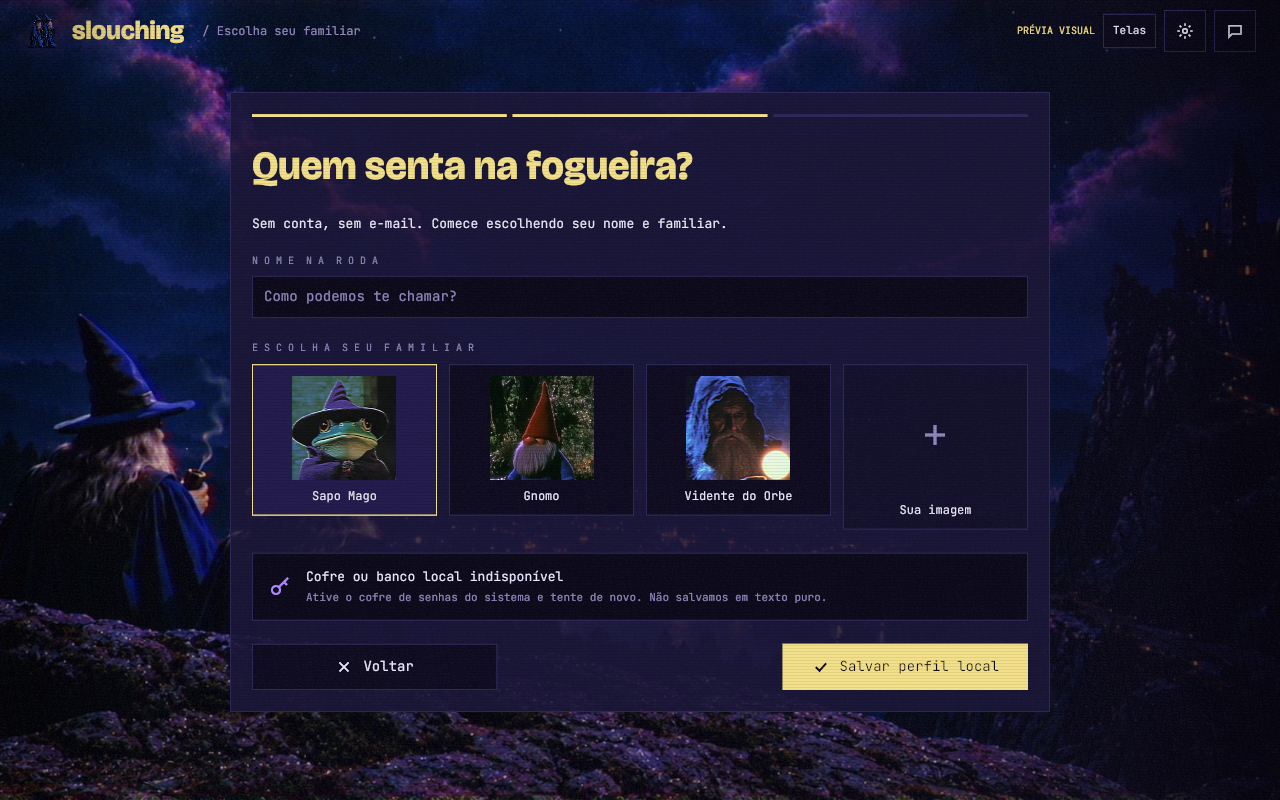
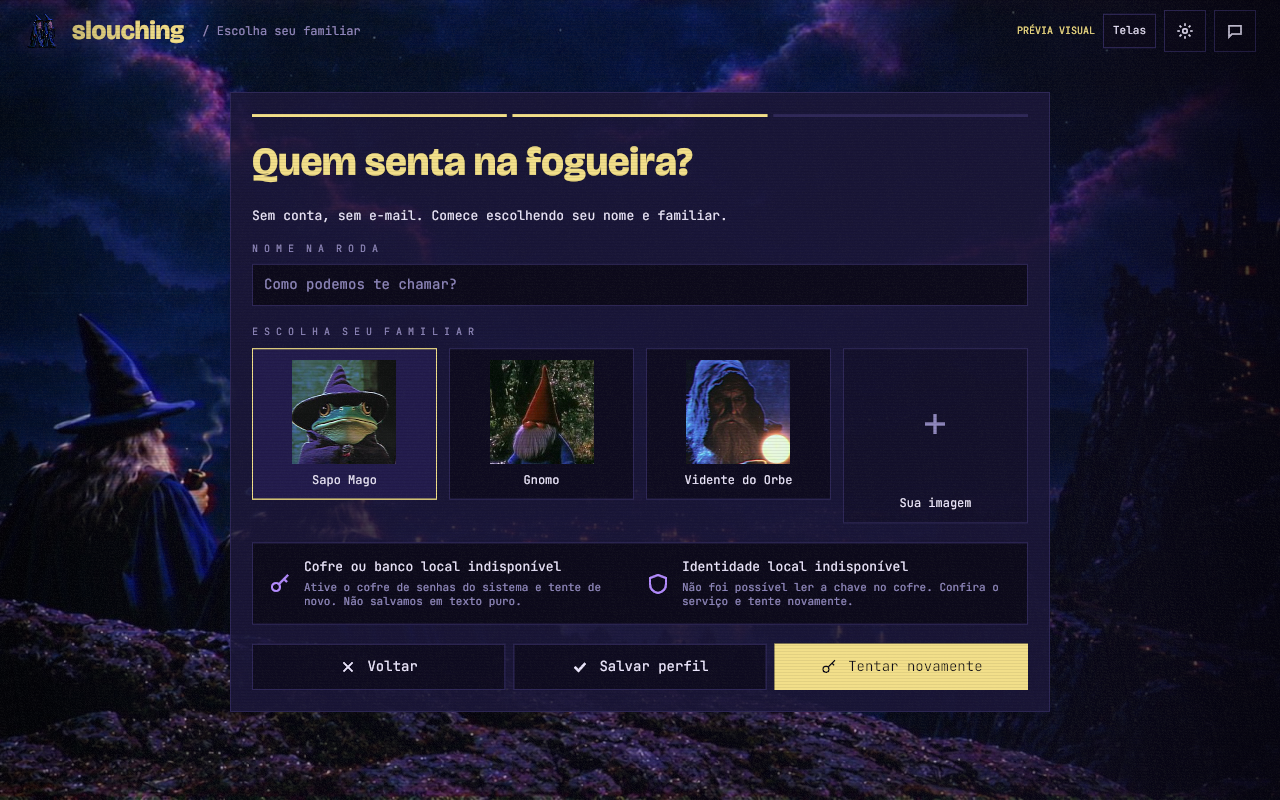
Document local Ed25519 device identity

diff --git a/README.md b/README.md
@@ -16,7 +16,7 @@
 **Conceived by Rodrigo and Vitchola**, Slouching is a planned private place for a small crew to chat, call, and share a screen. The Rust/Iced client owns local keys, cryptography, history, and direct peer paths. Each device is planned to retain its own encrypted SQLite history, inbox, outbox, and MLS state. Elixir remains the backend language. A member may optionally host a helper on a PC or VPS for ciphertext delivery, discovery, relay, or group media. Reachable LAN peers must work without a hosted helper or PostgreSQL; that mode is not implemented yet.
 
 > [!IMPORTANT]
-> This is an early build, **not a secure messenger**. The Rust/Iced frontend has eleven navigable preview views. The Elixir backend has local status and a persistent development WebSocket transport with a binary protobuf handshake and Ping/Pong heartbeat. There is no working cryptographic identity, MLS, peer transport, encrypted chat, media call, or screen sharing. The older Rust `slouching-peer` crate is preserved as an experiment, not the service backend.
+> This is an early build, **not a secure messenger**. The Rust/Iced frontend has eleven navigable preview views and can explicitly create a local Ed25519 signing key in the system credential store. That key is not used to authenticate peers; fingerprint verification, pairing, MLS, peer transport, encrypted chat, media calls, and screen sharing are not implemented. The Elixir backend has local status and a development WebSocket handshake with Ping/Pong. The older Rust `slouching-peer` crate is preserved as an experiment, not the service backend.
 
 ![Native Rust/Iced home using the supplied scenery, characters, fonts, and icons; first visual pass](docs/design/readme/native-vhs-home.png)
 
@@ -36,7 +36,7 @@ This repository holds the project overview, design sources, and a reconciled doc
 
 | Repository | Owns | Current state |
 | --- | --- | --- |
-| [slouching-frontend](https://github.com/slouching-org/slouching-frontend) | Native Rust/Iced desktop UI and web visual prototype | Eleven native previews; encrypted local display profile; local diagnostic transport |
+| [slouching-frontend](https://github.com/slouching-org/slouching-frontend) | Native Rust/Iced desktop UI and web visual prototype | Eleven native previews; encrypted local display profile; explicit Ed25519 key creation; local diagnostic transport |
 | [slouching-backend](https://github.com/slouching-org/slouching-backend) | Elixir service backend | Local transport plus optional PostgreSQL device-key schema; no enrollment or product traffic |
 
 Start with the [fichas index](docs/fichas/README.md). The [product specification](docs/fichas/architecture/backend.md), [Elixir backend boundary](docs/fichas/architecture/elixir-backend.md), [frontend screen specification](docs/fichas/frontend/screens.md), [technology plan](docs/fichas/architecture/tech-stack.md), and [ADRs](docs/fichas/README.md#accepted-decisions) describe the target and distinguish it from working code. The [owner's 11-page architecture PDF](docs/fichas/architecture/sources/architecture-p2p-v0.1.pdf) and [page-by-page transcript](docs/fichas/architecture/sources/README.md) are preserved. [ADR 0005](docs/fichas/architecture/adr-0005-elixir-server-core.md) defines the Rust-client/Elixir-backend division. [ADR 0006](docs/fichas/architecture/adr-0006-local-storage-optional-helper.md) reaffirms the backup specification: local SQLite, optional helpers, and PostgreSQL only as a deployment option.

diff --git a/docs/fichas/identity/identity.md b/docs/fichas/identity/identity.md
@@ -5,19 +5,21 @@
 > [ADR 0005](../architecture/adr-0005-elixir-server-core.md) defines the
 > Elixir backend and Rust client language boundary.
 
-**Estado:** especificada; não implementada.
+**Estado:** criação e armazenamento local da chave Ed25519 implementados;
+pareamento, fingerprint/QR e integração MLS ainda não implementados.
 
 O dispositivo criará sua própria identidade de assinatura e folha MLS. Não há
 conta ou email obrigatório. Nome e familiar são escolhas de perfil, diferentes
 da identidade criptográfica. A comparação de fingerprint/QR com outro membro
 é o ato que permite rotulá-lo como verificado.
 
-A tela nativa Rust/Iced mantém nome e familiar apenas em memória para
-prévia visual. O protótipo web histórico usa `localStorage`. Nenhuma dessas
-telas cria chaves ou identidade autenticada. A identidade e o estado MLS
-ficarão no dispositivo; histórico, inbox e outbox usarão SQLite criptografado.
-SQLCipher e proteção das chaves ainda precisam de implementação.
+A tela nativa salva nome e familiar em SQLite cifrado. Uma ação explícita
+cria uma seed Ed25519 de 32 bytes e a guarda no chaveiro do sistema; a tela
+mostra a chave pública correspondente como não verificada. A chave não é
+criada automaticamente, enviada a um peer ou usada para assinar mensagens.
+O protótipo web histórico continua usando `localStorage` e não cria chaves.
+O estado MLS, histórico, inbox e outbox ainda não estão implementados.
 
-Pendências de segurança: formato e proteção da chave local, múltiplos
-dispositivos, recuperação, política de troca de chave e derivação exata da
-comparação visual. Ver [modelo de confiança](../architecture/backend.md#3-trust-and-security-model).
+Pendências de segurança: derivação e formato do fingerprint/QR, verificação
+por canal independente, pareamento, múltiplos dispositivos, recuperação e
+política de troca de chave. Ver [modelo de confiança](../architecture/backend.md#3-trust-and-security-model).

diff --git a/docs/fichas/architecture/frontend-tech-stack.md b/docs/fichas/architecture/frontend-tech-stack.md
@@ -8,12 +8,12 @@ Its Elixir server/backend core and Rust/Iced client direction are retained.
 | --- | --- | --- |
 | Desktop UI | Rust 2024 + pinned Iced 0.14.0 | Native state in `src/main.rs` and eleven views in `src/ui.rs` |
 | Rendering | Iced/wgpu | Eleven visual-preview views with images, SVG icons, and canvas texture; live video unbuilt |
-| Local client core | Rust identity, cryptography, encrypted SQLite storage, transport, media | Not yet implemented |
-| Local persistence | SQLCipher encrypted SQLite plus OS credential store for the database key | Native client persists only display name and familiar; inbox, outbox, history, and MLS state are not implemented |
+| Local client core | Rust identity, cryptography, encrypted SQLite storage, transport, media | Ed25519 device key can be created explicitly and kept in OS credential store; it is not yet used for authentication |
+| Local persistence | SQLCipher encrypted SQLite plus OS credential store for keys | Persists display name and familiar; device signing seed is separately stored in credential store; inbox, outbox, history, and MLS state are not implemented |
 | Server/backend | Elixir, separately versioned backend repo | Development status and protobuf handshake implemented |
 | State boundary | Versioned protocol | Asynchronous loopback HTTP status and binary protobuf WebSocket handshake v1 integrated; production boundary pending |
 | Browser UI | HTML/CSS/JavaScript | Historical visual prototype in `prototypes/web/`; not product runtime |
-| Identity, MLS, storage, transport, calls | Client and server responsibilities per source PDF | Not implemented in frontend |
+| Identity, MLS, storage, transport, calls | Client and server responsibilities per source PDF | Local signing key creation only; pairing, fingerprint, MLS, messaging, and calls remain unimplemented |
 
 Under [ADR 0006](adr-0006-local-storage-optional-helper.md), the installed
 client has no PostgreSQL startup requirement. An optional helper may use

diff --git a/docs/fichas/architecture/local-storage.md b/docs/fichas/architecture/local-storage.md
@@ -2,15 +2,18 @@
 
 **Status:** the native client now stores its display name and familiar in
 SQLCipher encrypted SQLite, with a random key held in the operating system
+credential store. The Ed25519 signing seed is stored separately in that
 credential store. Inbox, outbox, conversation history, and MLS state remain
 unimplemented. See [ADR 0006](adr-0006-local-storage-optional-helper.md).
 
 Each device owns its identity, MLS state, conversation history, inbox, and
 outbox. SQLCipher is now used for the local display profile; the app generates
 a random 32-byte database key and stores it in the operating system credential
-store. Identity key generation, user-facing unlock behavior, cross-device
-backup, and recovery still require explicit implementation and review. A
-profile name or avatar is not a cryptographic identity.
+store. The app can also explicitly create an Ed25519 device signing seed and
+store it in a separate credential. User-facing unlock behavior, cross-device
+backup, recovery, and using the key to authenticate protocol messages still
+require implementation and review. A profile name or avatar is not a
+cryptographic identity.
 
 ## Required behavior
 
@@ -30,7 +33,7 @@ profile name or avatar is not a cryptographic identity.
   attachment chunks. A holder's absence or data loss may make them unavailable.
 
 The event envelope, history schema, transaction boundaries, recovery, and
-key lifecycle beyond the local profile remain implementation work. Neither
+key lifecycle beyond local profile/key creation remains implementation work. Neither
 the web prototype's `localStorage` nor the profile table satisfies these
 conversation-storage rules.
 

diff --git a/docs/fichas/frontend/current-slice.md b/docs/fichas/frontend/current-slice.md
@@ -13,13 +13,16 @@ share-source tabs, and the interface texture toggle work locally. The
 familiar screen saves only the display name and familiar in SQLCipher
 encrypted SQLite; its random database key is kept in the operating system
 credential store. This profile is distinct from device identity and does not
-create cryptographic keys or message history.
+create message history. A separate explicit action creates an Ed25519 device
+signing seed in the system credential store and displays its public key as
+unverified. The key does not authenticate peers or sign protocol messages;
+fingerprint/QR derivation and pairing remain unimplemented.
 
 Every view is labeled as a visual preview. Character scenes and messages
 are examples. Camera/microphone actions explain their unavailable state;
 send, capture, and verification controls cannot perform product operations.
-The app does not generate keys, enumerate devices, send messages, join calls,
-or persist a local identity/conversation history. The settings **Rede & P2P** tab exposes
+The app does not enumerate devices, send messages, join calls, or persist
+conversation history. The settings **Rede & P2P** tab exposes
 real backend diagnostics separately from the illustrative call routes.
 
 The earlier HTML/CSS/JavaScript preview is retained under

diff --git a/docs/fichas/architecture/adr-0006-local-storage-optional-helper.md b/docs/fichas/architecture/adr-0006-local-storage-optional-helper.md
@@ -17,8 +17,9 @@ The owner reaffirmed the backup decisions.
 - Each device owns its identity keys, MLS state, encrypted local history,
   inbox, and outbox. The first native persistence slice stores only the
   display name and familiar in SQLCipher encrypted SQLite; its random key is
-  kept in the operating system credential store. The product inbox, outbox,
-  history, and MLS state remain unimplemented.
+  kept in the operating system credential store. A separate explicit action
+  can create an Ed25519 signing seed in that store. Authentication, pairing,
+  product inbox, outbox, history, and MLS state remain unimplemented.
 - Reachable peers must be able to communicate on a LAN without PostgreSQL,
   a hosted service, or an internet route. Direct internet communication
   depends on a permitted reachable route.
